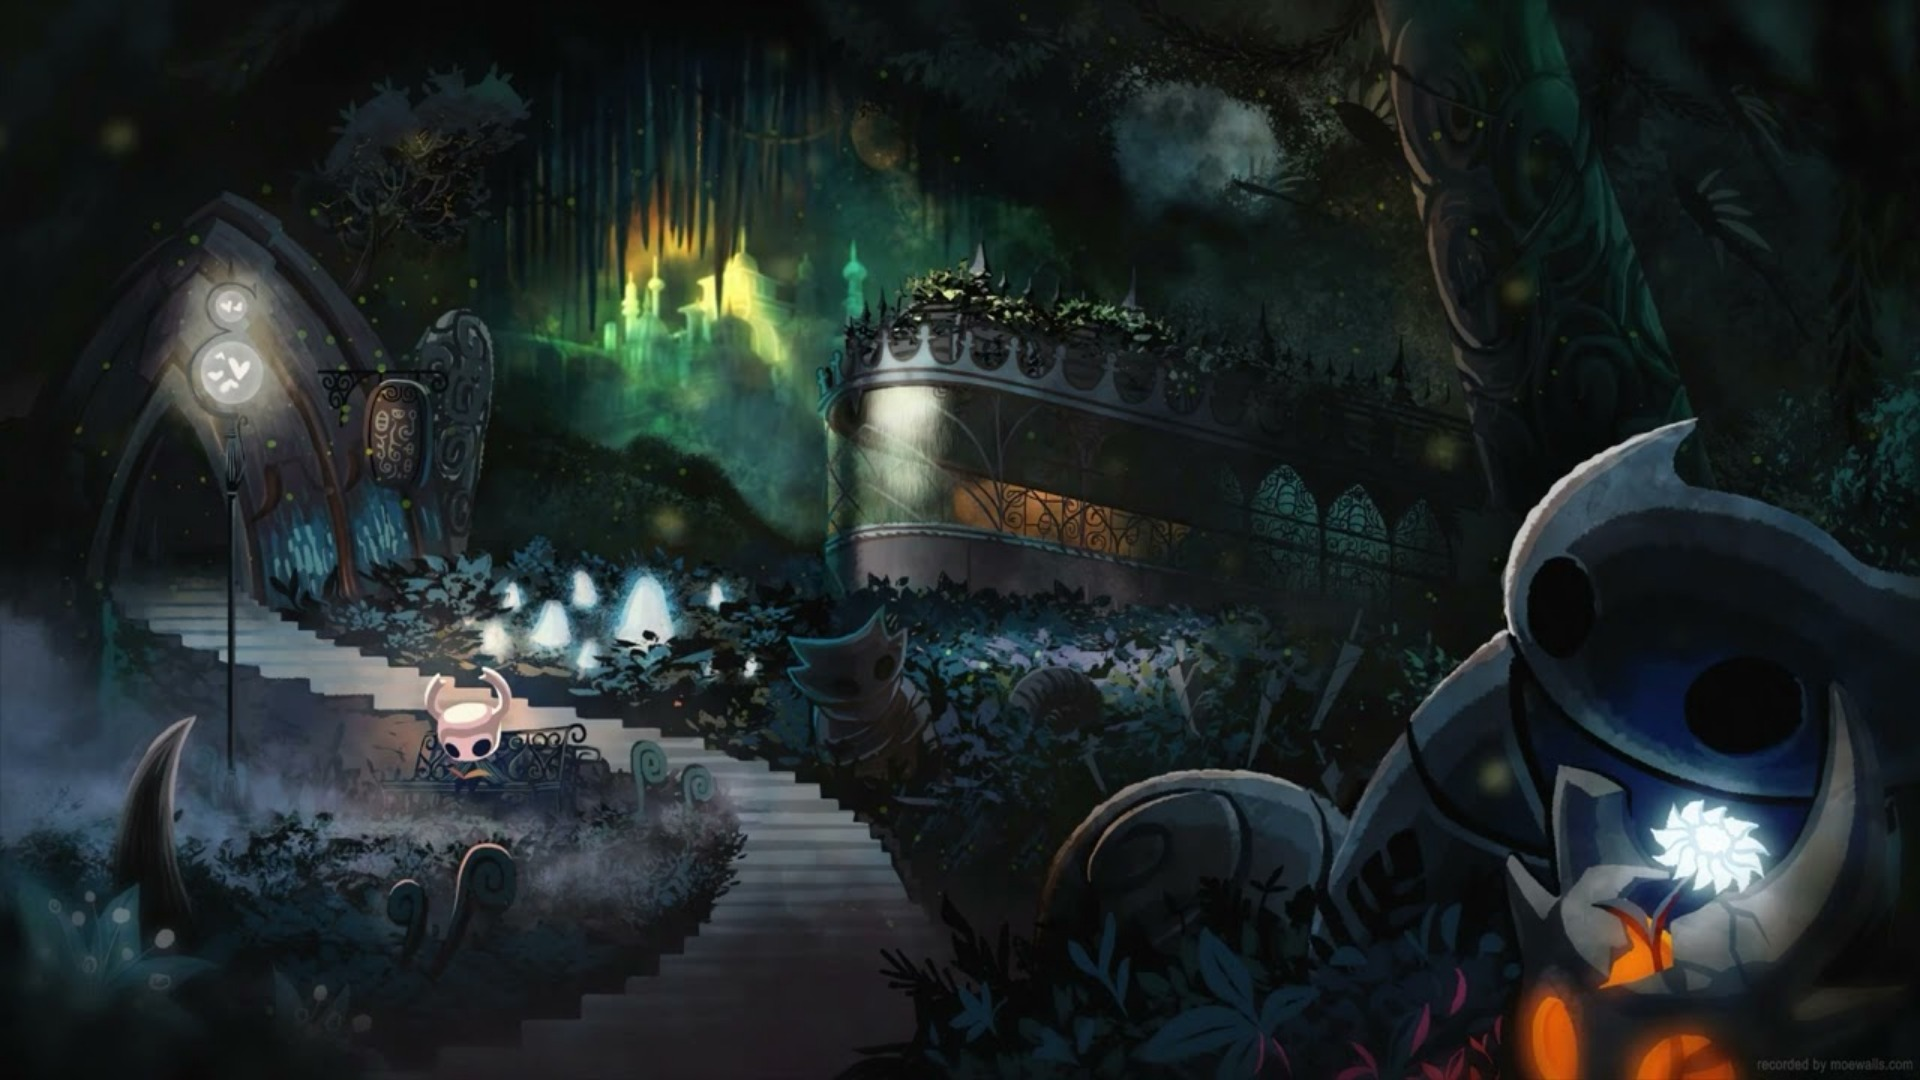
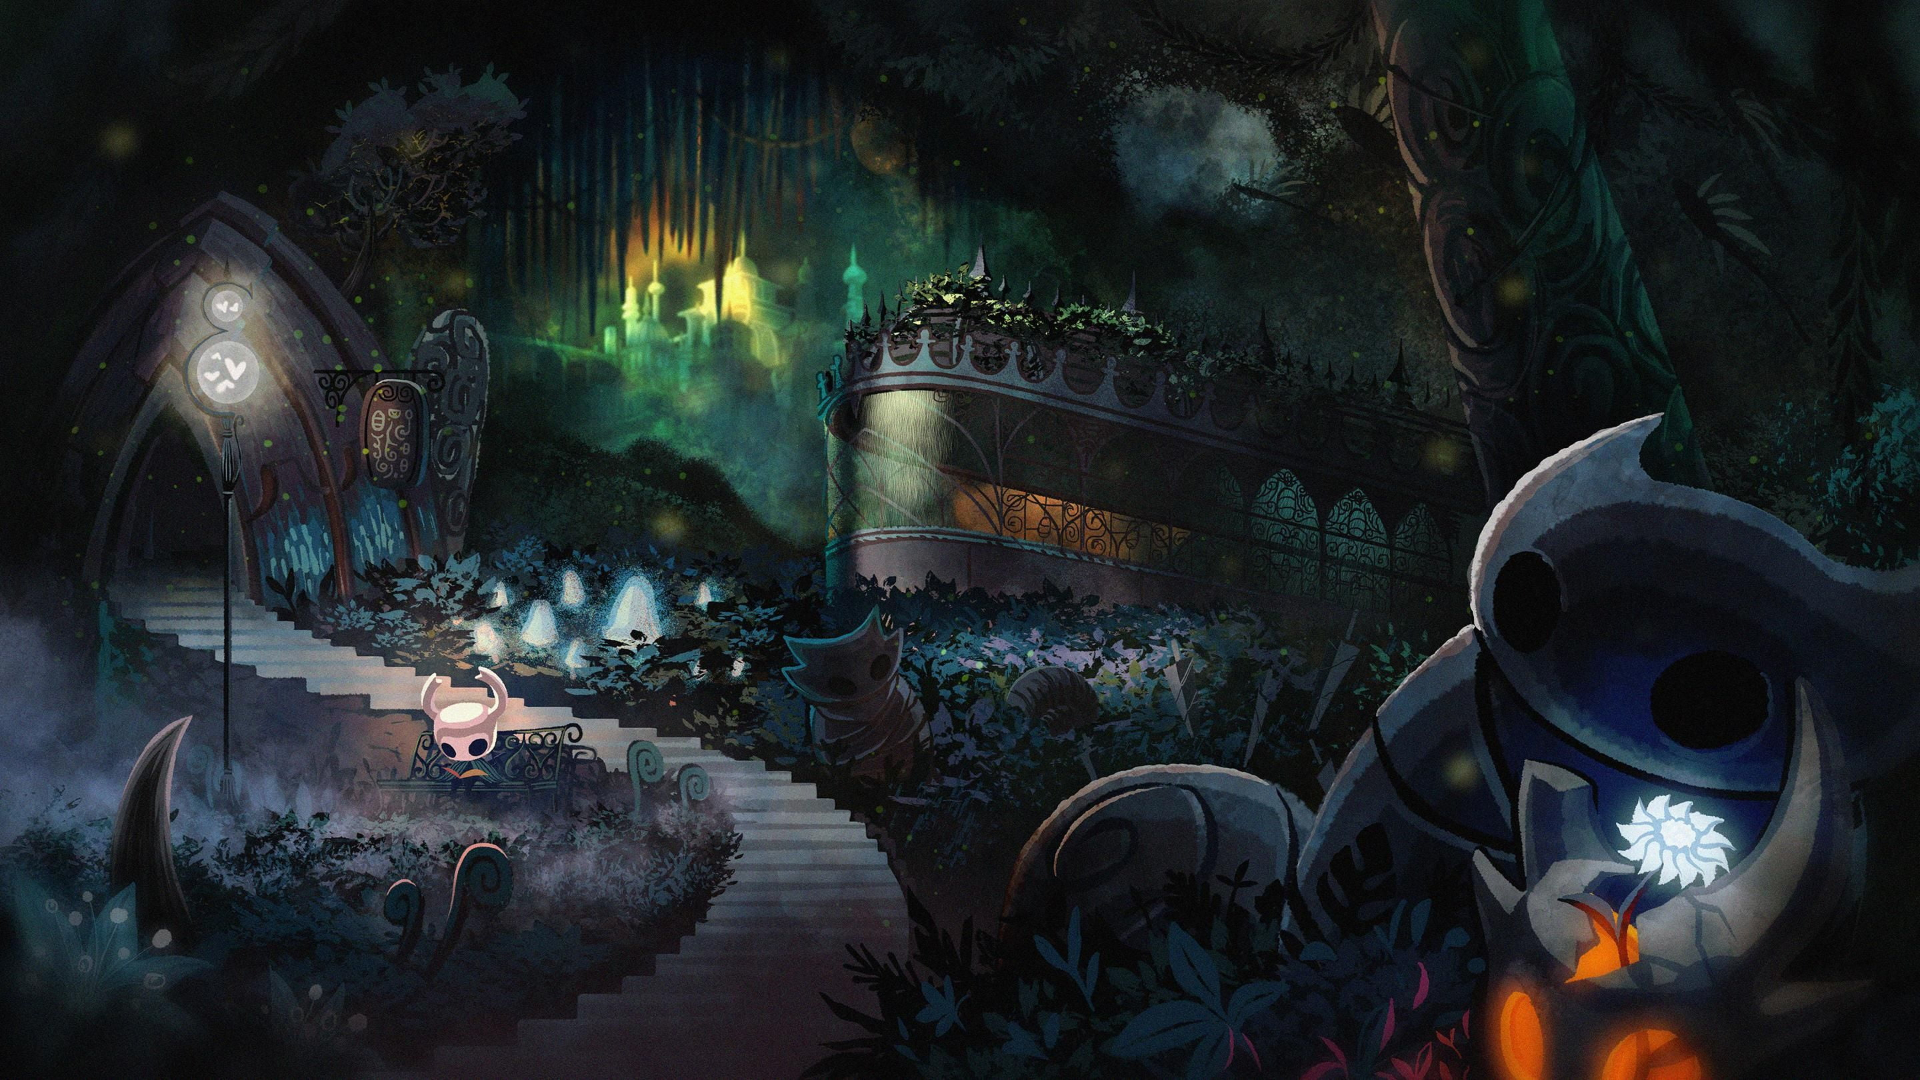
Resized background

diff --git a/styles2.css b/styles2.css
@@ -2,7 +2,7 @@ body {
     font-family: 'Courier New', Courier, monospace;
     display: flex;
     flex-direction: column;
-    background-image: url(./videoPlayer/hollowknightresized.jpg);
+    background-image: url(./videoPlayer/hollowknight.jpg);
     background-size: cover;
 }
 
